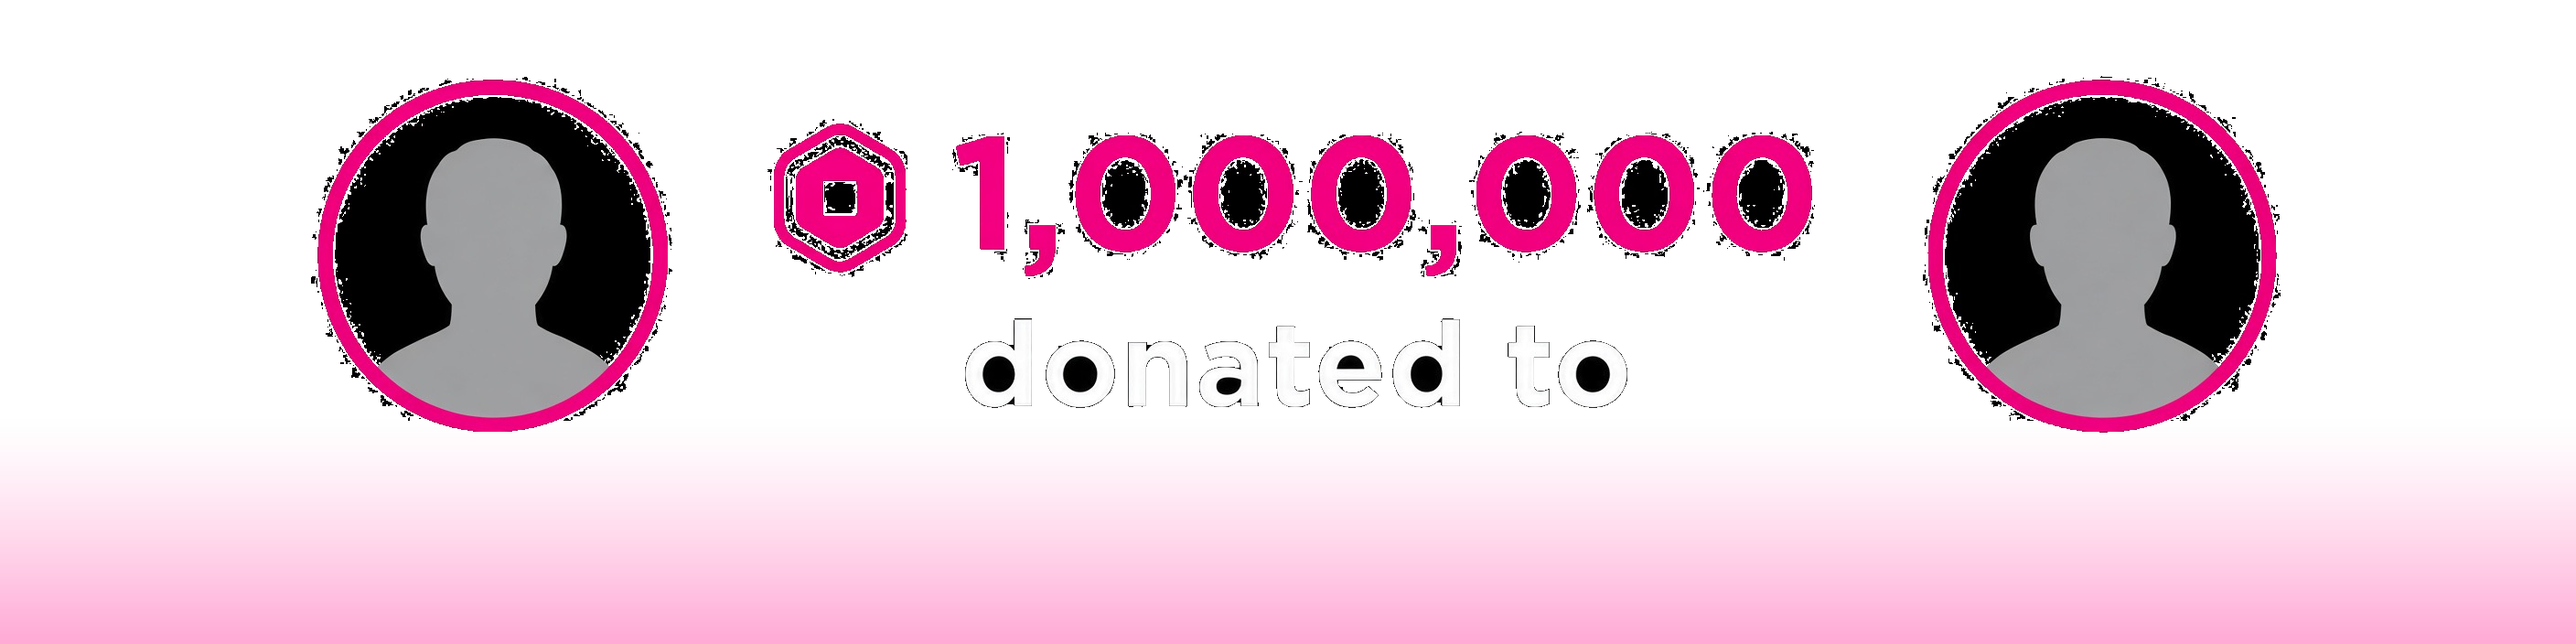
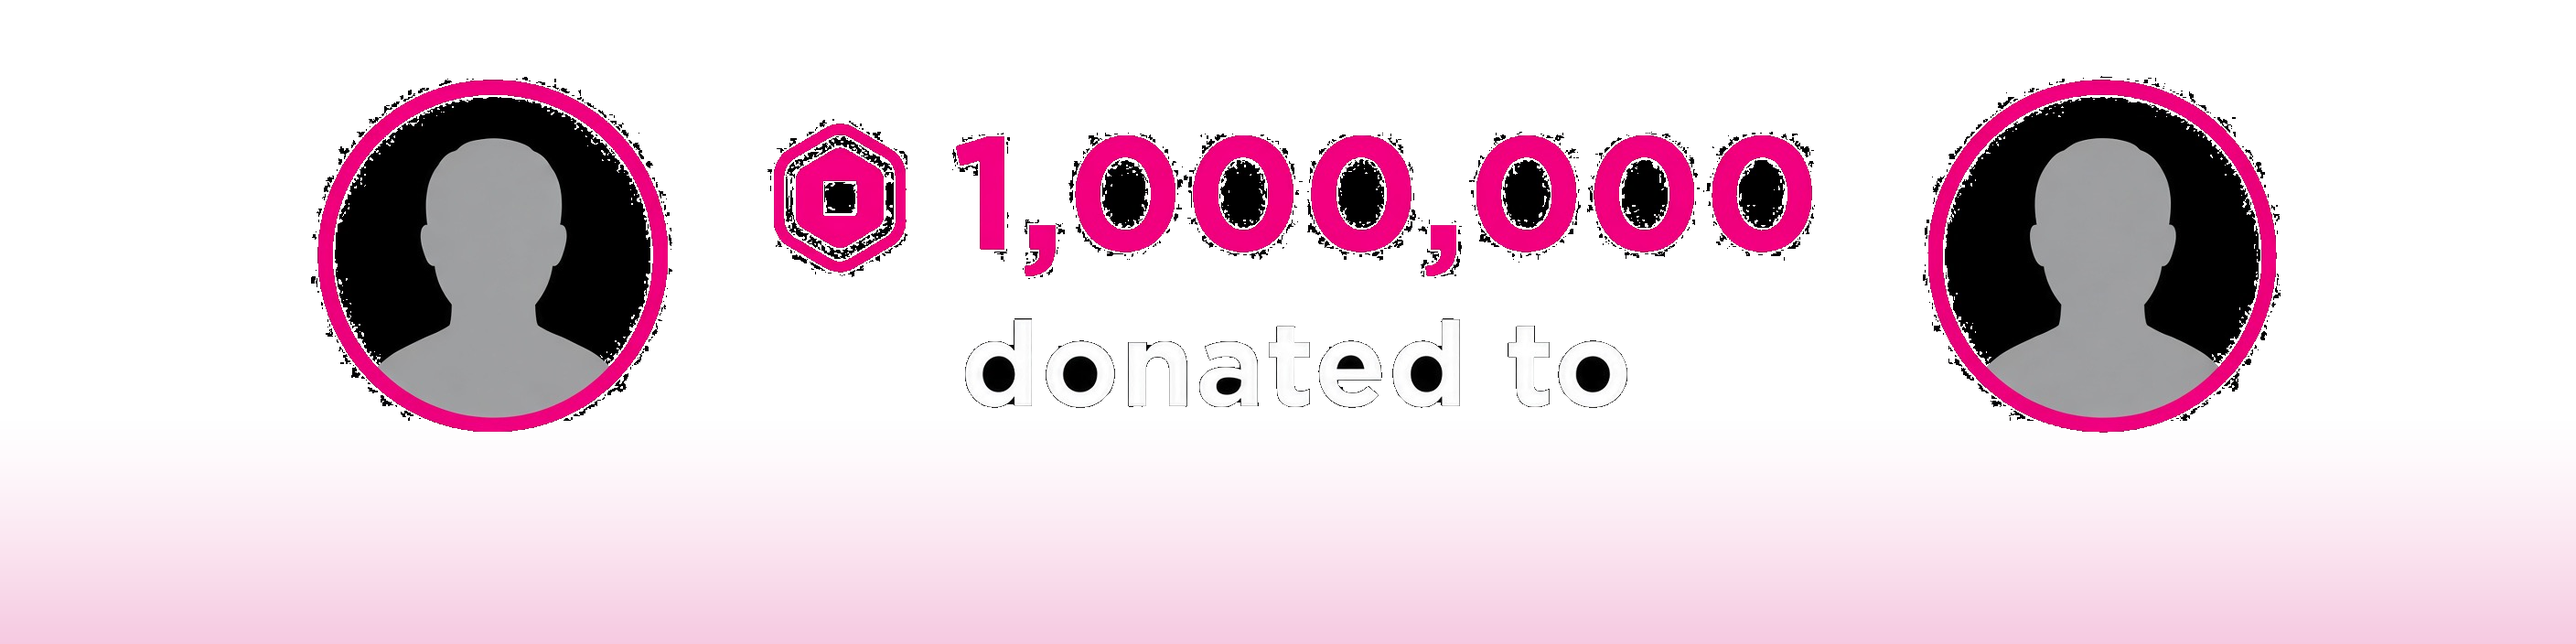
Mute Smite accent fade

Changed region(s): [[0.0, 0.9062, 1.0, 1.0]]

diff --git a/scripts/rebuild_ref_alpha.py b/scripts/rebuild_ref_alpha.py
@@ -23,14 +23,14 @@ REFS = ROOT / "assets" / "refs"
 
 ACCENT = {
     "nuke": (255, 0, 220),
-    "smite": (255, 0, 130),
+    "smite": (220, 60, 145),  # muted pink; less neon than the source accent
     "starfall": (255, 10, 0),
 }
 
 # Synthetic soft glow (replaces speckled JPG fade). strength ≈ peak alpha/255
 # tuned so on-black appearance ≈ Hazem JPG bottom samples.
 FADE = {
-    "smite": dict(start_y=460, strength=0.34, exp=1.25, blur=12),
+    "smite": dict(start_y=460, strength=0.28, exp=1.25, blur=12),
     "starfall": dict(start_y=240, strength=0.55, exp=1.05, blur=10),
 }
 
